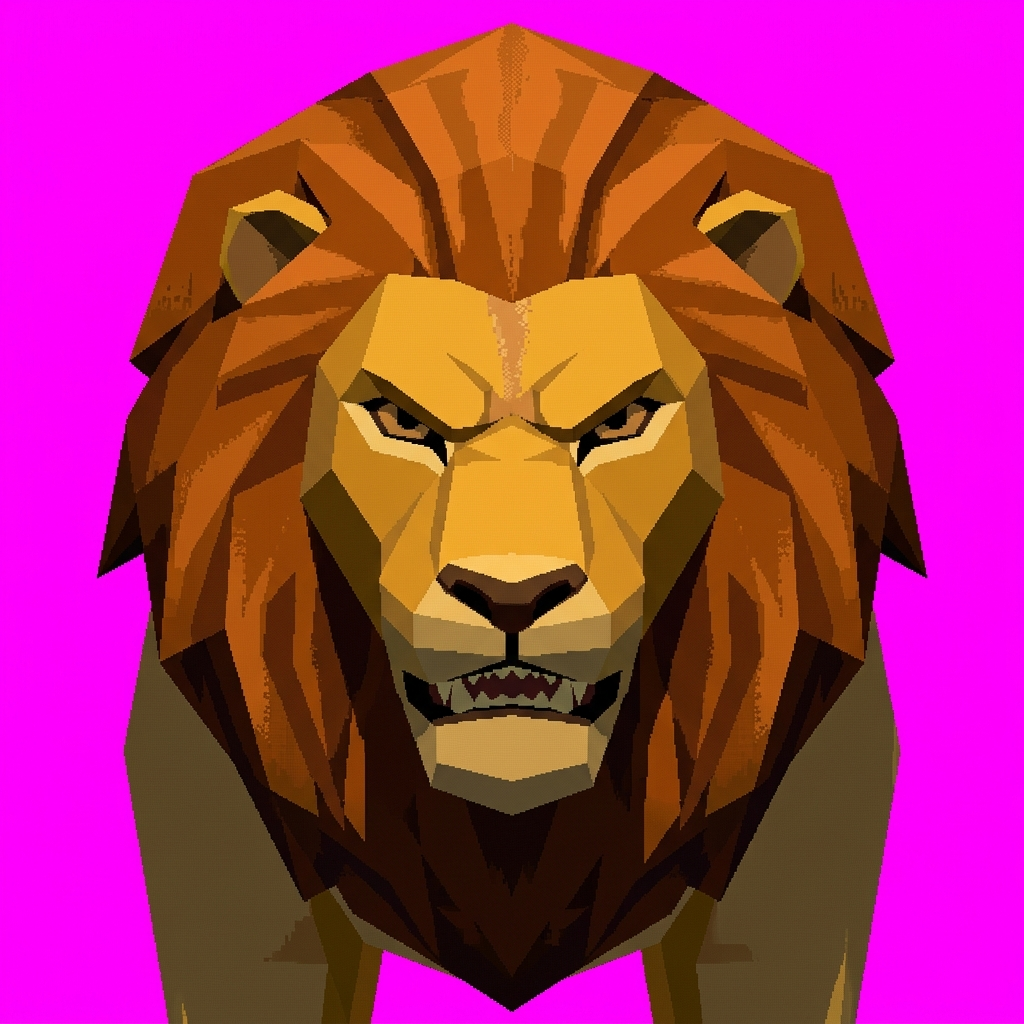
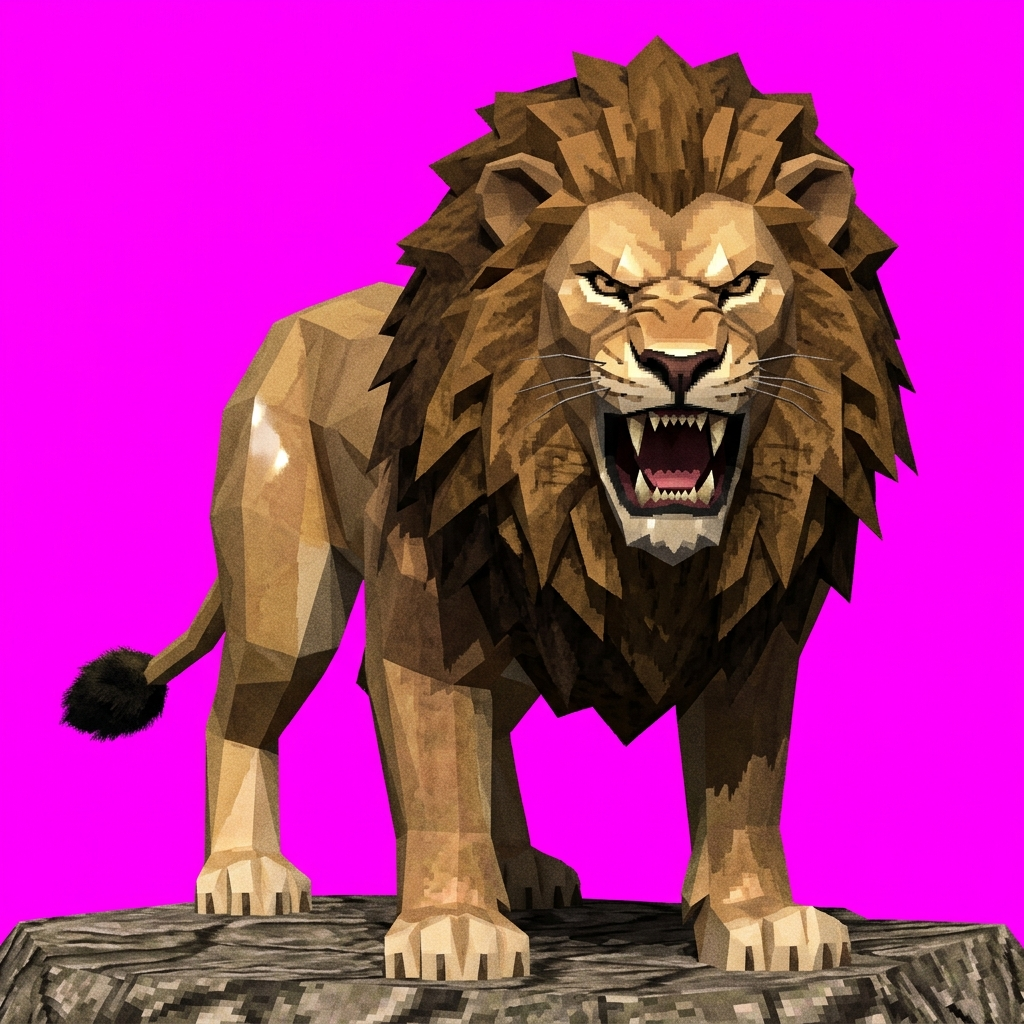
Fix leg animation tear and use fullbody 3D sprites

diff --git a/david.js b/david.js
@@ -870,9 +870,10 @@ class DavidGame {
         const img = wolfCanvas;
         const isAttacking = enemy.attackCd > (cfg.atCd - 0.4);
         const attackJawDrop = isAttacking ? 0.08 : 0;
-        const swing = Math.sin(enemy.bobTime * 6) * 0.12 * (u < 0.5 ? 1 : -1);
+        // Smooth sine wave over U to prevent tearing at center
+        const swing = Math.sin(enemy.bobTime * 8) * 0.12 * Math.sin(u * Math.PI * 2);
 
-        // 1. Top half (Ears, eyes)
+        // 1. Top half
         let sliceX = Math.floor(u * img.width);
         ctx.drawImage(img, sliceX, 0, 1, Math.floor(0.4 * img.height), col, sprTop, 1, 0.4 * sprH);
 
@@ -880,7 +881,6 @@ class DavidGame {
         ctx.drawImage(img, sliceX, Math.floor(0.4 * img.height), 1, Math.floor(0.25 * img.height), 
                       col, sprTop + (0.4 + attackJawDrop) * sprH, 1, 0.25 * sprH);
 
-        // Fill open mouth gap with red
         if (isAttacking && u > 0.35 && u < 0.65) {
            ctx.fillStyle = '#6b0000';
            ctx.fillRect(col, sprTop + 0.4 * sprH, 1, attackJawDrop * sprH + 1);
@@ -895,9 +895,9 @@ class DavidGame {
         const img = lionCanvas;
         const isAttacking = enemy.attackCd > (cfg.atCd - 0.4);
         const attackJawDrop = isAttacking ? 0.10 : 0;
-        const swing = Math.sin(enemy.bobTime * 5) * 0.10 * (u < 0.5 ? 1 : -1);
+        const swing = Math.sin(enemy.bobTime * 6) * 0.10 * Math.sin(u * Math.PI * 2);
 
-        // 1. Top half (Mane, eyes)
+        // 1. Top half
         let sliceX = Math.floor(u * img.width);
         ctx.drawImage(img, sliceX, 0, 1, Math.floor(0.45 * img.height), col, sprTop, 1, 0.45 * sprH);
 
@@ -905,7 +905,6 @@ class DavidGame {
         ctx.drawImage(img, sliceX, Math.floor(0.45 * img.height), 1, Math.floor(0.25 * img.height), 
                       col, sprTop + (0.45 + attackJawDrop) * sprH, 1, 0.25 * sprH);
 
-        // Fill open mouth gap
         if (isAttacking && u > 0.3 && u < 0.7) {
            ctx.fillStyle = '#4a0000';
            ctx.fillRect(col, sprTop + 0.45 * sprH, 1, attackJawDrop * sprH + 1);
